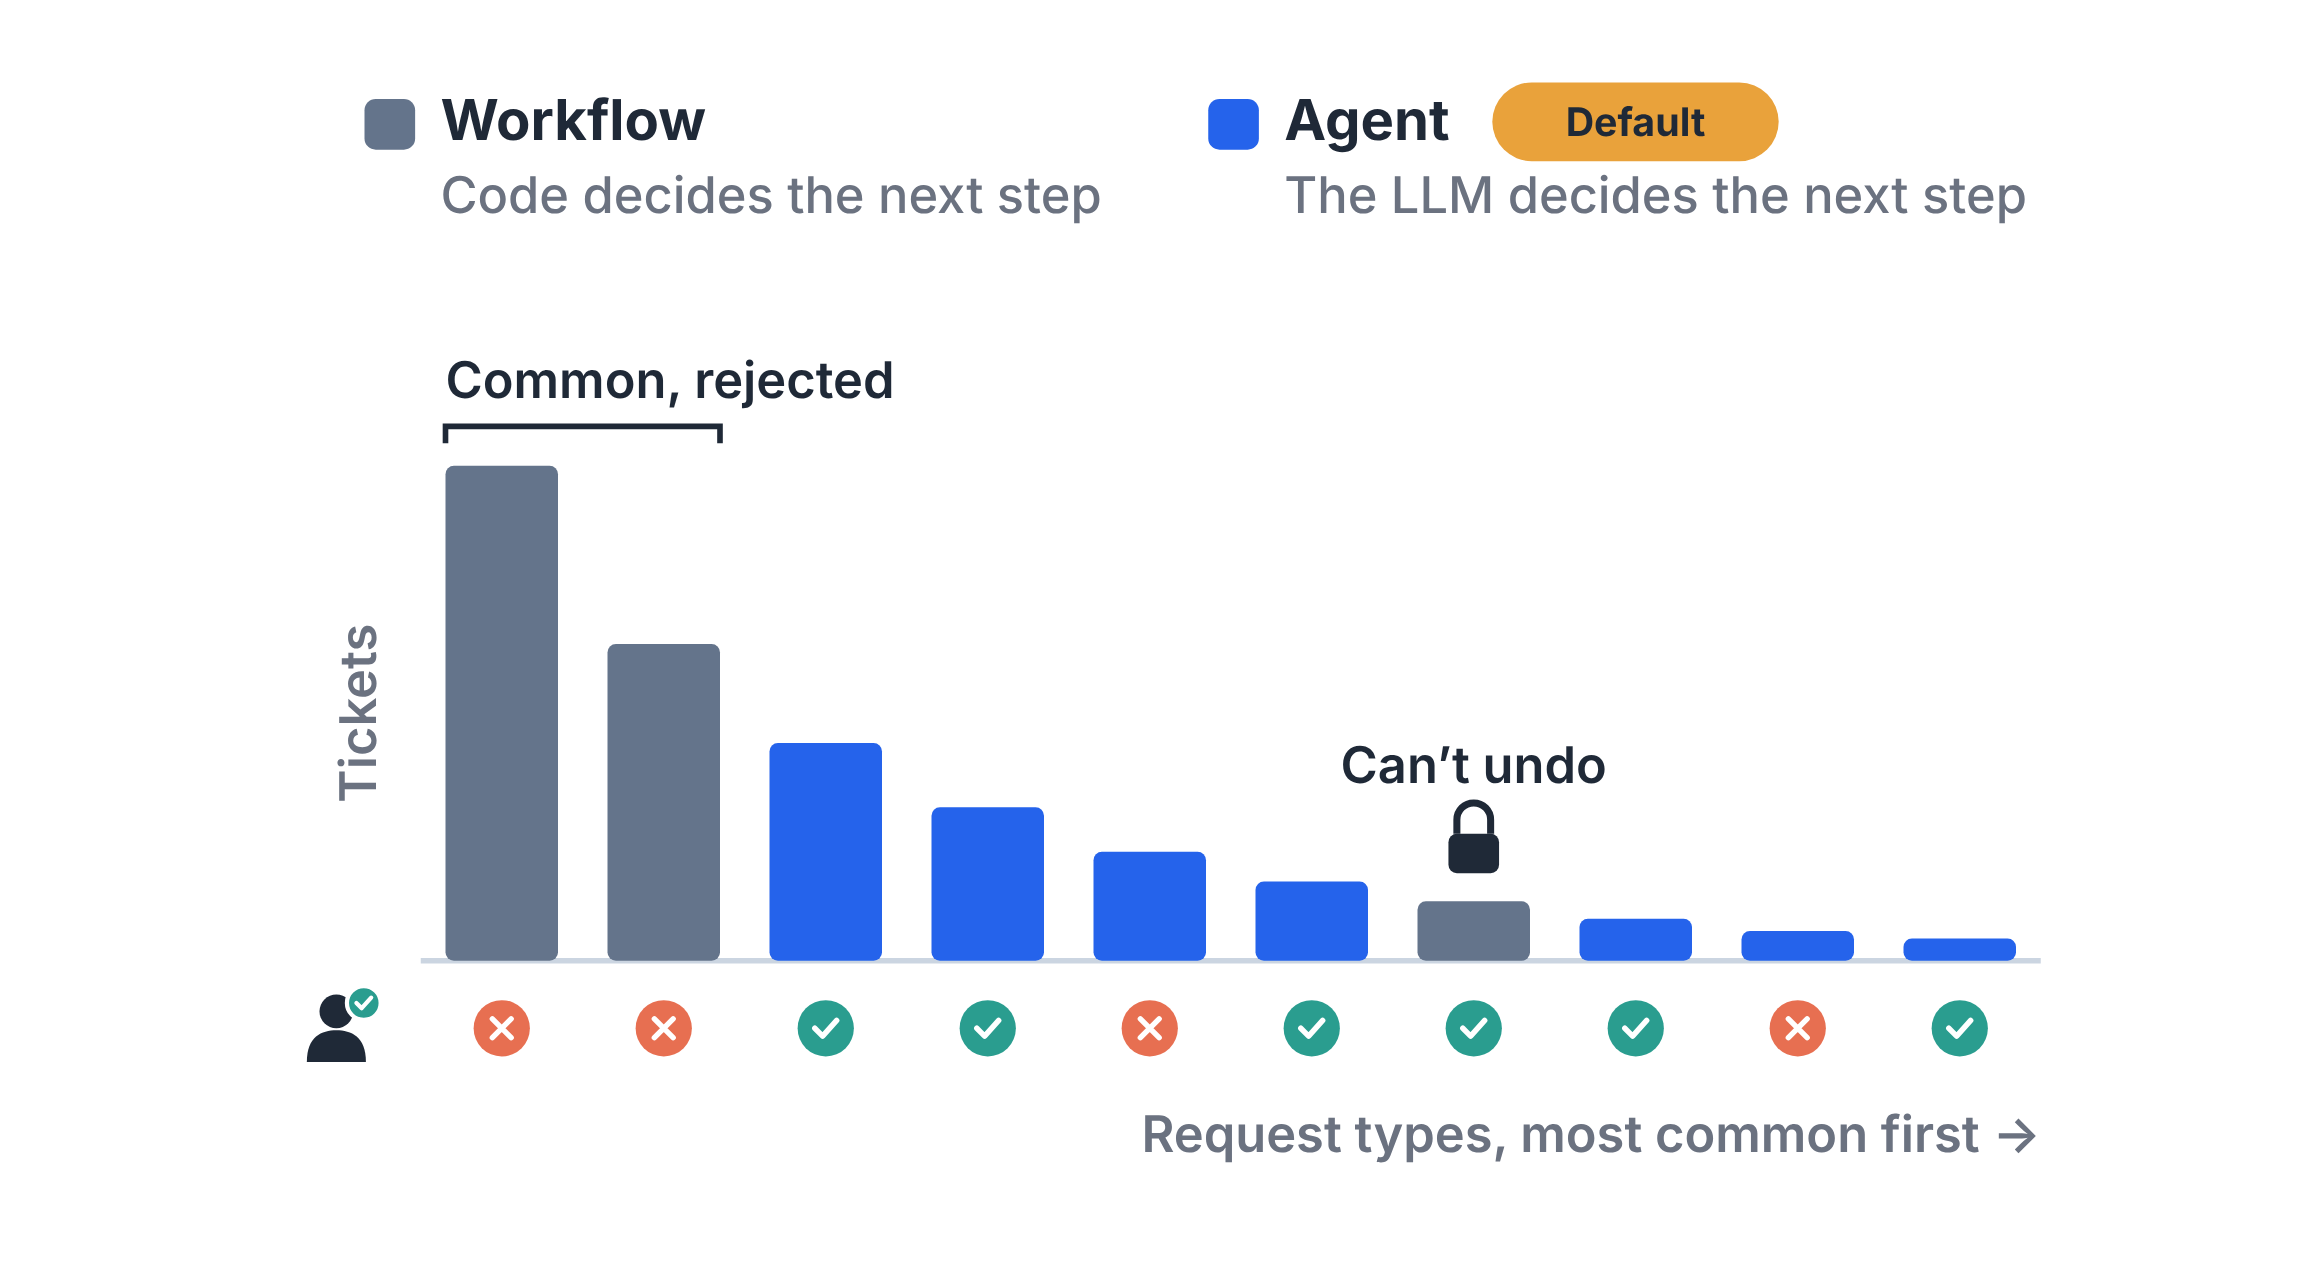
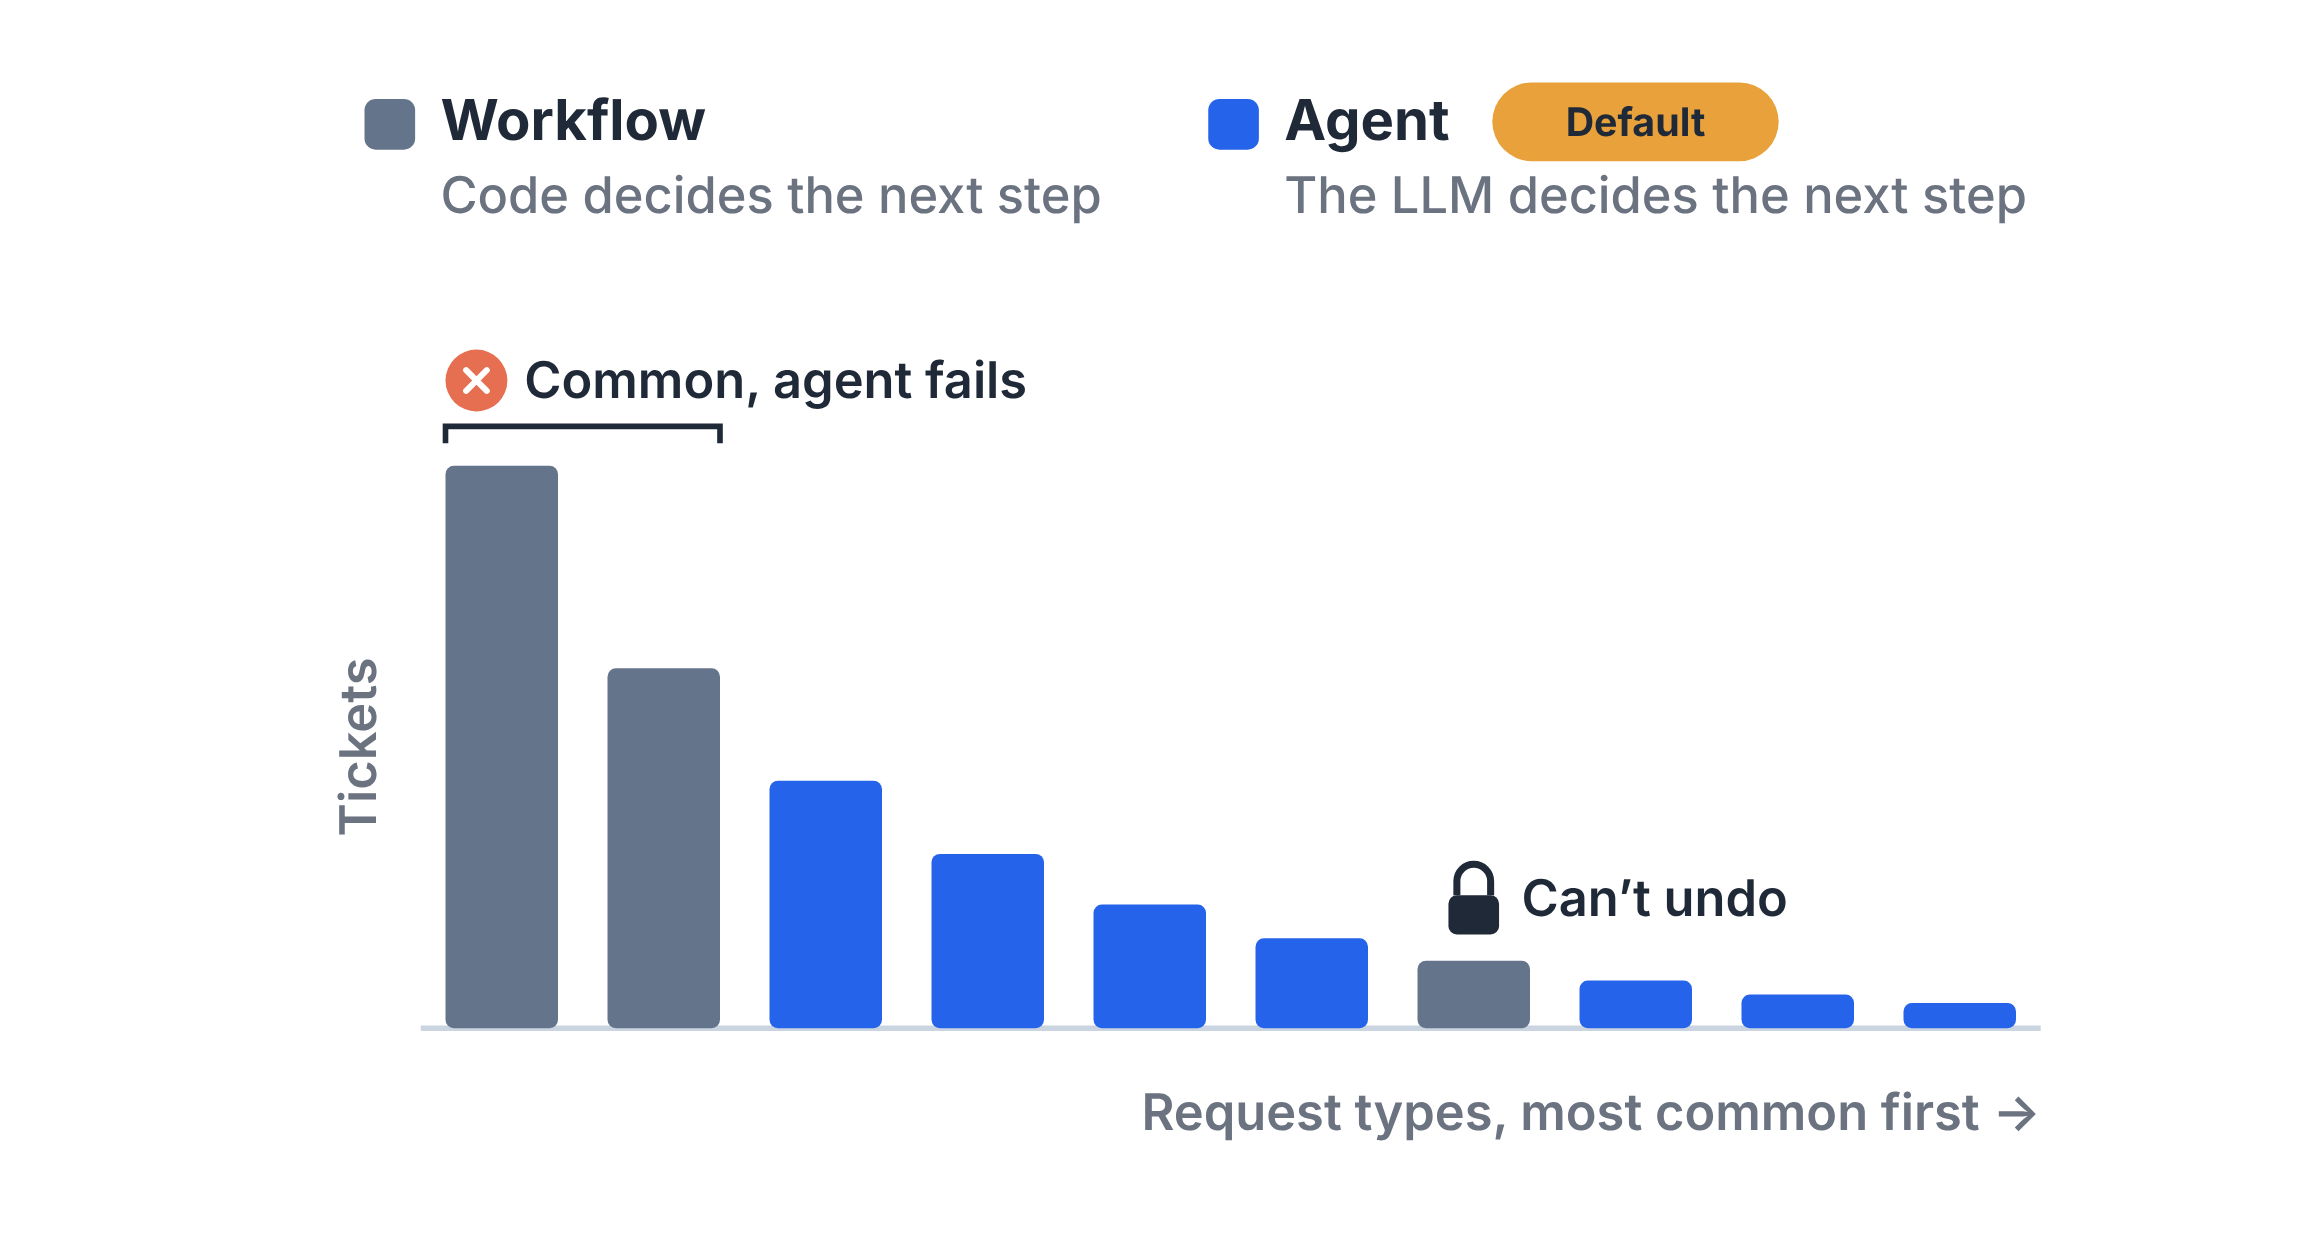
Workflow or Agent figure: mark why a type is in code, not grades under every bar
Grades under each bar read as verdicts on the design the bar is in now, so
the grey workflow bars over a cross looked like failing workflows. The cross
now sits with its reason over the bars it moved into code ("Common, agent
fails"), like the lock over "Can't undo", and the caption and LinkedIn text
say the agent drafts first and code takes a type over afterwards.

Claude-Session: https://claude.ai/code/session_01PUJ3u4xmB95LA39WHBigqG

diff --git a/src/components/DecisionFigures.tsx b/src/components/DecisionFigures.tsx
@@ -4,7 +4,8 @@
  * - default: the post's recommendation. Request types, most common first, the
  *   long tail in the agent's colour; a type is in the workflow's only once it
  *   is common and the experts reject the agent's drafts, or its action can't
- *   be undone. The legend says what each design is: who decides each step.
+ *   be undone, and that reason sits over its bar. The legend says what each
+ *   design is: who decides the next step.
  * - grid: three intents against three account states, the mapping a workflow
  *   has to spell out. The tree decided two cells, both for a locked account,
  *   Alex's among them; the other seven are question marks.
@@ -19,7 +20,7 @@
  * server, no JavaScript.
  */
 import type { ComponentType, ReactNode } from 'react';
-import { color, PALETTE, Expert, Grade, Person, Reply, type Point } from '../remotion/shared';
+import { color, PALETTE, Grade, Person, Reply, type Point } from '../remotion/shared';
 import { Tag } from './map-parts';
 
 /** Alex Carter, the post's running example, in the color customers get in the shadow loop. */
@@ -154,20 +155,20 @@ function IntentGrid() {
 }
 
 const DefaultDescription =
-  'Request types as bars, most common first, with a long tail of rare ones. The legend: in a workflow, code decides the next step; in an agent, the LLM does; and the agent is the default. Under each bar is the experts’ grade of the agent’s drafts. The two most common types are rejected, so they are in the workflow; a rare type whose action can’t be undone is in the workflow too, under a lock. Every other type, a common one that is approved and rare ones whether approved or not, stays with the agent.';
+  'Request types as bars, most common first, with a long tail of rare ones. The legend: in a workflow, code decides the next step; in an agent, the LLM does; and the agent is the default. The two most common types are in the workflow, marked with a cross: common, and the agent fails them. A rare type is in the workflow too, marked with a lock: its action can’t be undone. Every other type stays with the agent.';
 
-/** The request types, most common first: the share of tickets, the experts' grade of the agent's drafts, and whether code runs it. */
-const TYPES: { share: number; ok: boolean; code?: boolean; irreversible?: boolean }[] = [
-  { share: 1, ok: false, code: true },
-  { share: 0.64, ok: false, code: true },
-  { share: 0.44, ok: true },
-  { share: 0.31, ok: true },
-  { share: 0.22, ok: false },
-  { share: 0.16, ok: true },
-  { share: 0.12, ok: true, code: true, irreversible: true },
-  { share: 0.085, ok: true },
-  { share: 0.06, ok: false },
-  { share: 0.045, ok: true },
+/** The request types, most common first: the share of tickets, and whether code runs it. */
+const TYPES: { share: number; code?: boolean; irreversible?: boolean }[] = [
+  { share: 1, code: true },
+  { share: 0.64, code: true },
+  { share: 0.44 },
+  { share: 0.31 },
+  { share: 0.22 },
+  { share: 0.16 },
+  { share: 0.12, code: true, irreversible: true },
+  { share: 0.085 },
+  { share: 0.06 },
+  { share: 0.045 },
 ];
 
 interface DefaultLayout {
@@ -182,10 +183,10 @@ interface DefaultLayout {
 
 const DEFAULT_WIDE: DefaultLayout = {
   width: 640,
-  height: 400,
+  height: 392,
   size: 18,
   legend: { workflow: { x: 40, y: 24 }, agent: { x: 340, y: 24 } },
-  plot: { left: 60, right: 636, top: 140, bottom: 316 },
+  plot: { left: 60, right: 636, top: 140, bottom: 340 },
   bar: 40,
 };
 
@@ -195,7 +196,7 @@ const DEFAULT_TALL: DefaultLayout = {
   height: 560,
   size: 19,
   legend: { workflow: { x: 4, y: 24 }, agent: { x: 4, y: 90 } },
-  plot: { left: 60, right: 436, top: 182, bottom: 466 },
+  plot: { left: 60, right: 436, top: 190, bottom: 500 },
   bar: 28,
 };
 
@@ -206,6 +207,16 @@ const Lock = ({ x, y }: Point) => (
   <g transform={`translate(${x} ${y})`}>
     <path d="M-6,-2 v-5 a6,6 0 0 1 12,0 v5" fill="none" stroke={color('text')} strokeWidth={2.5} />
     <rect x={-9} y={-2} width={18} height={14} rx={3} fill={color('text')} />
+  </g>
+);
+
+/** Why a request type is in code: an icon centred 11 right of x, then a short label, on the baseline y. */
+const Reason = ({ x, y, size, icon, text }: Point & { size: number; icon: ReactNode; text: string }) => (
+  <g>
+    <g transform={`translate(${x + 11} ${y - size * 0.35})`}>{icon}</g>
+    <Text x={x + 28} y={y} anchor="start" size={size}>
+      {text}
+    </Text>
   </g>
 );
 
@@ -231,9 +242,8 @@ function DefaultSvg({ layout, className }: { layout: DefaultLayout; className: s
   const slot = (plot.right - plot.left) / TYPES.length;
   const cx = (i: number) => plot.left + slot * (i + 0.5);
   const top = (share: number) => plot.bottom - share * (plot.bottom - plot.top);
-  const gradeY = plot.bottom + 24;
   const axis = { stroke: color('edge'), strokeWidth: 2 };
-  // The bracket over the common types the agent got wrong.
+  // Why a type is in code, over its bars: a cross for the common ones the agent fails, a lock for the one that can't be undone.
   const rejected = TYPES.map((t, i) => (t.code && !t.irreversible ? i : -1)).filter((i) => i >= 0);
   const bracket = { x1: cx(rejected[0]) - bar / 2, x2: cx(rejected[rejected.length - 1]) + bar / 2, y: plot.top - 14 };
   const locked = TYPES.findIndex((t) => t.irreversible);
@@ -246,28 +256,17 @@ function DefaultSvg({ layout, className }: { layout: DefaultLayout; className: s
       <text transform={`translate(${plot.left - 16} ${(plot.top + plot.bottom) / 2}) rotate(-90)`} textAnchor="middle" fontSize={size} fontWeight={600} fill={color('muted')}>
         Tickets
       </text>
-      {/* The experts' grades of the agent's drafts, one per request type */}
-      <Expert x={plot.left - 30} y={gradeY} scale={0.75} />
-      <Text x={plot.right} y={gradeY + 44} anchor="end" size={size} muted>
+      <Text x={plot.right} y={plot.bottom + 36} anchor="end" size={size} muted>
         Request types, most common first →
       </Text>
 
       {TYPES.map((t, i) => (
-        <g key={i}>
-          <rect x={cx(i) - bar / 2} y={top(t.share)} width={bar} height={plot.bottom - top(t.share)} rx={3} fill={routeColor(t.code)} />
-          <Grade x={cx(i)} y={gradeY} ok={t.ok} r={10} />
-        </g>
+        <rect key={i} x={cx(i) - bar / 2} y={top(t.share)} width={bar} height={plot.bottom - top(t.share)} rx={3} fill={routeColor(t.code)} />
       ))}
 
       <path d={`M${bracket.x1},${bracket.y + 6} V${bracket.y} H${bracket.x2} V${bracket.y + 6}`} fill="none" stroke={color('text')} strokeWidth={2} />
-      <Text x={bracket.x1} y={bracket.y - 10} anchor="start" size={size}>
-        Common, rejected
-      </Text>
-
-      <Lock x={cx(locked)} y={top(TYPES[locked].share) - 22} />
-      <Text x={cx(locked)} y={top(TYPES[locked].share) - 42} size={size}>
-        Can’t undo
-      </Text>
+      <Reason x={bracket.x1} y={bracket.y - 10} size={size} icon={<Grade x={0} y={0} ok={false} r={11} />} text="Common, agent fails" />
+      <Reason x={cx(locked) - 11} y={top(TYPES[locked].share) - 16} size={size} icon={<Lock x={0} y={1} />} text="Can’t undo" />
     </Svg>
   );
 }

diff --git a/src/content/reposts/linkedin/AGENTS.md b/src/content/reposts/linkedin/AGENTS.md
@@ -118,7 +118,10 @@ A post takes one image, so pick the one the message needs: the post's position,
 not a detail of the argument for it. Workflow or Agent first used its grid of
 request types and account states, which shows where the first design ran out,
 and then a figure of the recommendation itself: request types split between
-agent and workflow, with a legend that says what each term means. Another
+agent and workflow, with a legend that says what each term means. Mind what a
+figure implies about order: grades drawn under every bar read as verdicts on
+the design each bar is in now, so a grey workflow bar over a cross looked as
+if the workflow was failing. The cross went next to the reason instead. Another
 picture goes in a comment, one per comment, such as the review screen under The
 Missing Test Suite's version. Readers who never open the comments never see it,
 so the text points only at the post's own image.
@@ -126,8 +129,9 @@ so the text points only at the post's own image.
 The post's image shows below the text, so a sentence that points at it has to
 make sense before the reader scrolls to it ("top right in the picture below",
 not a "cell" the text hasn't introduced). Tie the text to what the image labels:
-Workflow or Agent's "common and keeps getting rejected, or one whose action
-can't be undone" are the figure's two labels.
+Workflow or Agent's "the type is common and the graders keep rejecting the
+agent's drafts for it, or its action can't be undone" are the figure's two
+labels, "Common, agent fails" and "Can't undo".
 
 Reuse the post's images under `/images/blog/<slug>/` where they fit. A crop
 made for LinkedIn goes in `src/assets/images/blog/<slug>/linkedin/` and keeps

diff --git a/src/content/reposts/linkedin/workflow-vs-agent.md b/src/content/reposts/linkedin/workflow-vs-agent.md
@@ -15,7 +15,7 @@ But a workflow only answers what someone wrote a branch for. A few request types
 
 An agent with a set of tools doesn't need all of that written out first. It won't get every case right either, but it is much less to build, so the people who know the business can start grading its drafts sooner. Any plan that touches account access would still wait for a person to approve it.
 
-Then I'd let the grades decide what moves into code, as in the picture below: a request type that is common and keeps getting rejected, or one whose action can't be undone. Everything else stays with the agent.
+Code would then take over a request type only once it has earned it, as in the picture below: the type is common and the graders keep rejecting the agent's drafts for it, or its action can't be undone. Everything else stays with the agent.
 
 Full post in the first comment.
 
